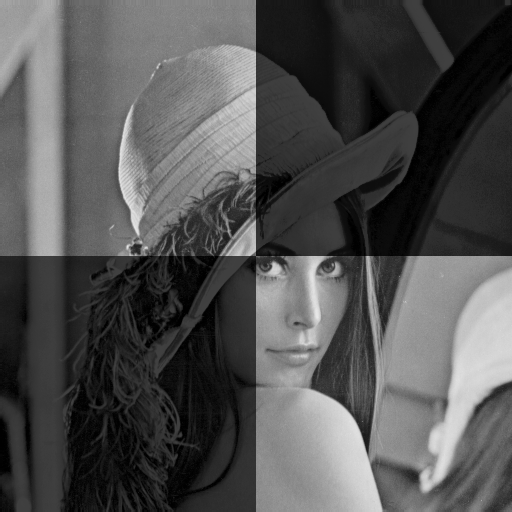
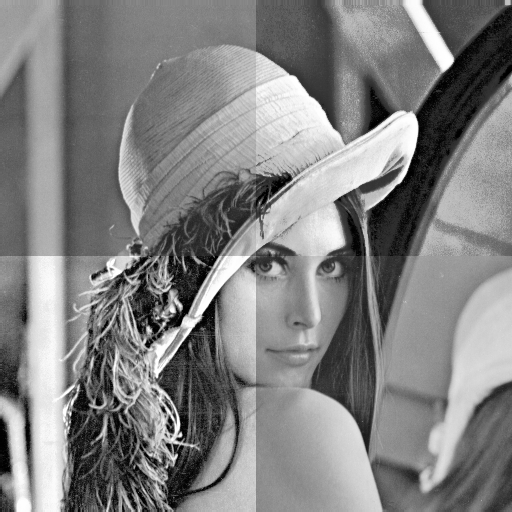
Ajuste da questão 06 e 07 😅

diff --git a/question_06.py b/question_06.py
@@ -18,7 +18,7 @@ def imEqHist(img, rows_i, rows_f, cols_i, cols_f):
 	im_hn = im_h.copy()
 	s_k = im_h.copy()
 
-	MN = rows * cols
+	MN = (rows_f - rows_i) * (cols_f - cols_i)
 
 	for i in range(rows_i, rows_f):
 		for j in range(cols_i, cols_f):
@@ -55,9 +55,10 @@ img = io.imread(path + filename)
 
 rows, cols = img.shape
 
-print(rows, cols)
-img_out = imEqHist(img.copy(), 0, rows//2, cols//2, cols)
-img_out = imEqHist(img_out, rows//2, rows, 0, cols//2)
+img_out = img.copy()
+
+imEqHist(img_out, 0, rows // 2, cols // 2, cols)
+imEqHist(img_out, rows // 2, rows, 0, cols // 2)
 
 plt.figure('In')
 io.imshow(img)

diff --git a/question_07.py b/question_07.py
@@ -18,7 +18,7 @@ def imEqHist(img, rows_i, rows_f, cols_i, cols_f):
 	im_hn = im_h.copy()
 	s_k = im_h.copy()
 
-	MN = rows * cols
+	MN = (rows_f - rows_i) * (cols_f - cols_i)
 
 	for i in range(rows_i, rows_f):
 		for j in range(cols_i, cols_f):
@@ -55,8 +55,7 @@ img = io.imread(path + filename)
 
 rows, cols = img.shape
 
-print(rows, cols)
-img_out = imEqHist(img.copy(), 0, rows, cols//2, cols)
+img_out = imEqHist(img.copy(), 0, rows, cols // 2, cols)
 
 plt.figure('In')
 io.imshow(img)
